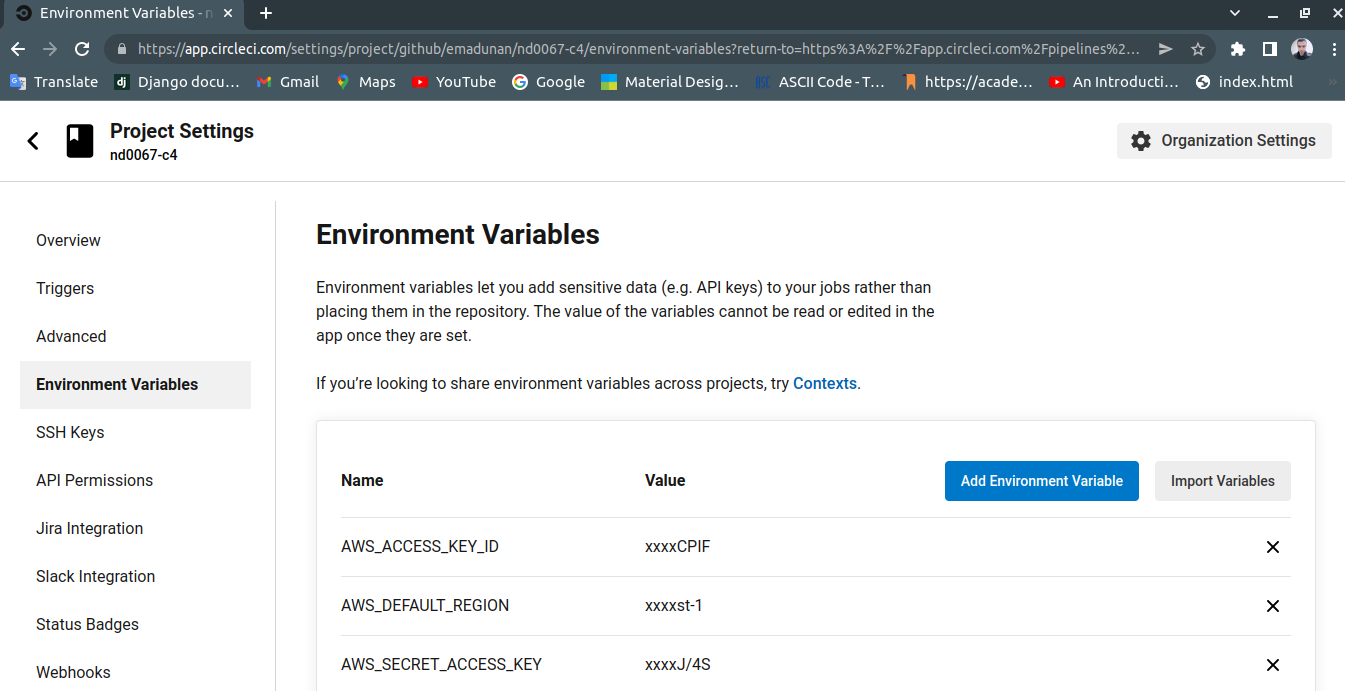
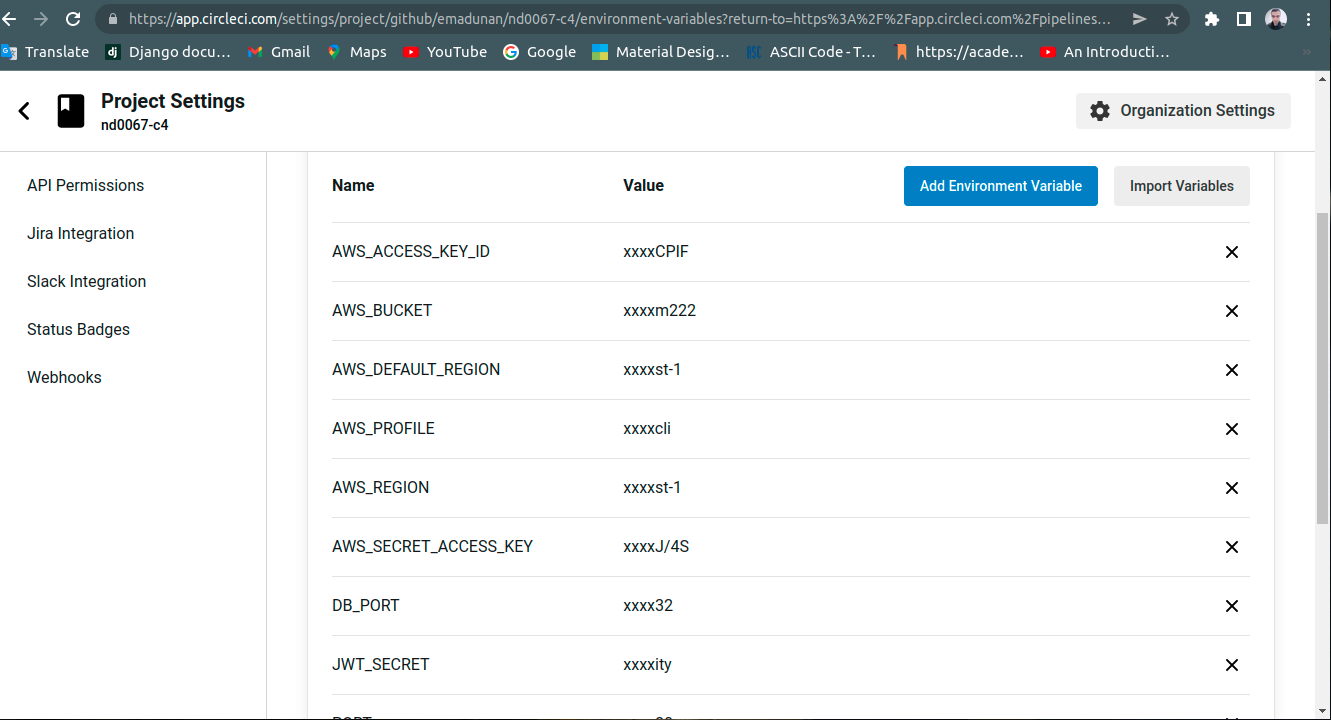
fix passing variable via CircleCI

diff --git a/README.md b/README.md
@@ -23,6 +23,9 @@ Here is the link for the frontend [Udagram Application](http://udagram222.s3-web
 #### Setup the secrets in CircleCi and send them to EB
 ![RDS screenshot](./documentation/screenshots/CircleCI_screenshot1.png)
 
+#### Passing the environment variables via CircleCI using "eb setenv"
+![RDS screenshot](./documentation/screenshots/CircleCI_screenshot4.png)
+
 #### Latest working CircleCi build
 ![RDS screenshot](./documentation/screenshots/CircleCI_screenshot2.png)
 
